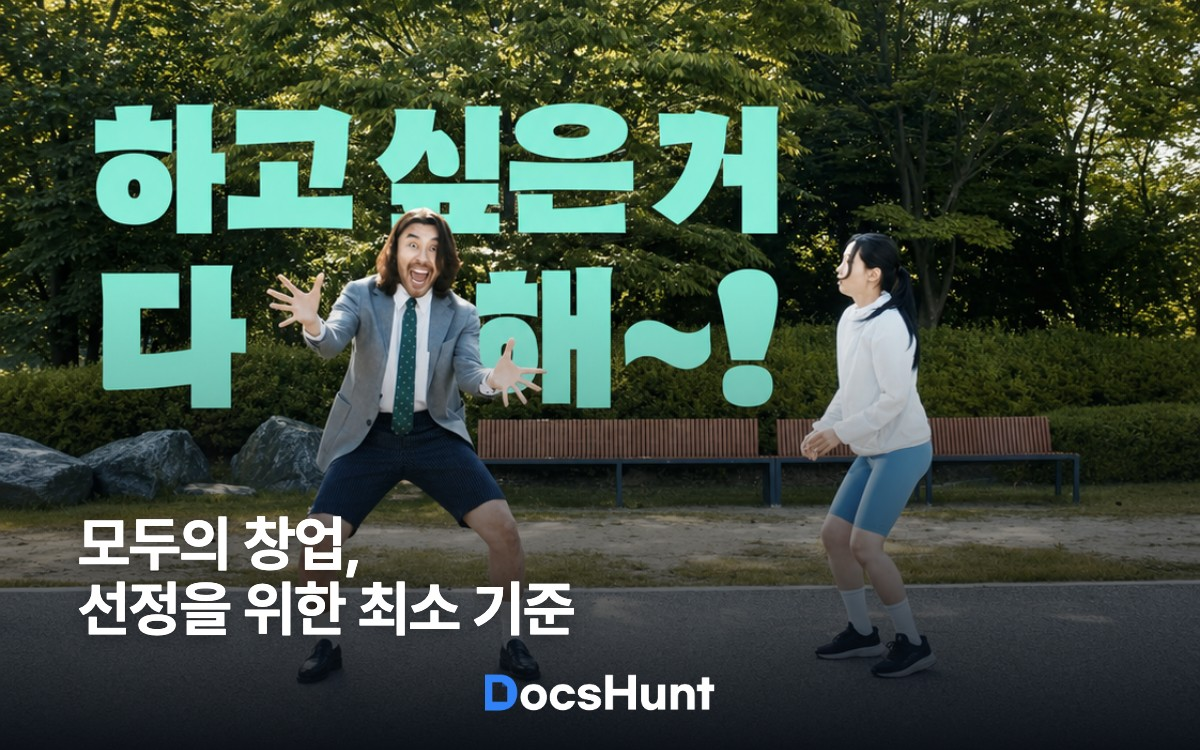
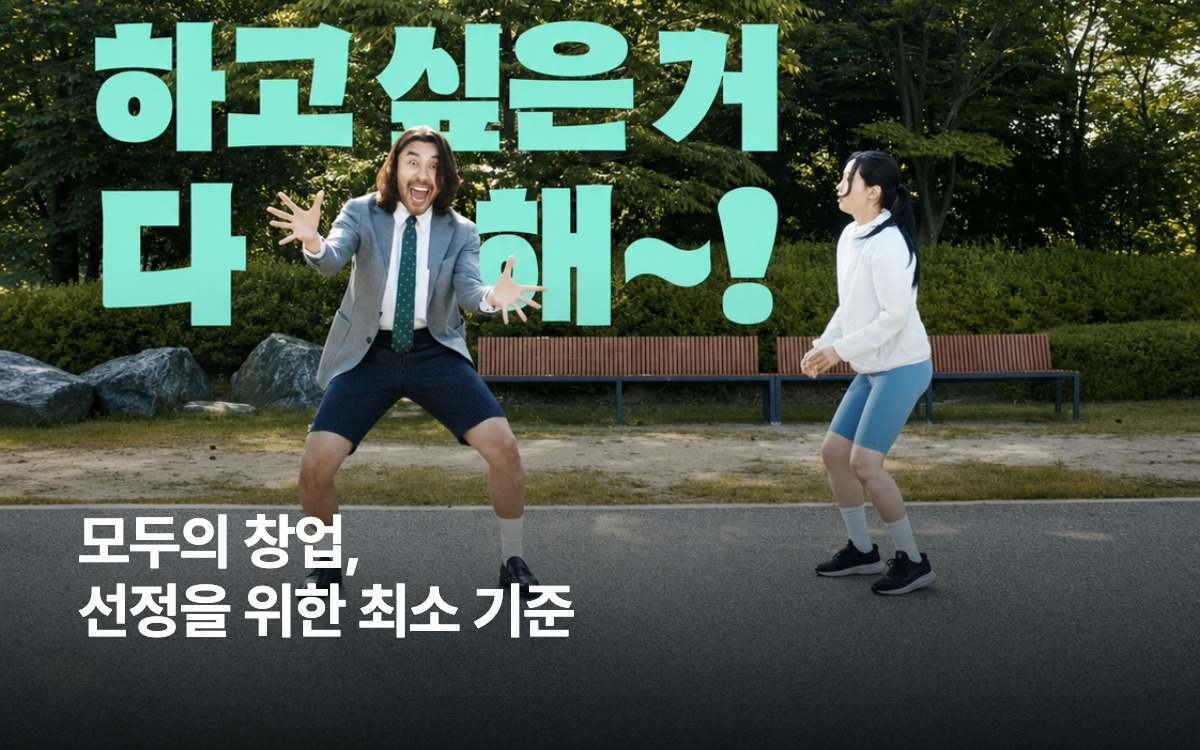
feat: 카드뉴스 커버 워터마크 제거와 하루키 글 등록 (#62)

diff --git a/src/data/blog-posts/00100-재즈바도-소설도-하루키는-하루치씩-했습니다.ts b/src/data/blog-posts/00100-재즈바도-소설도-하루키는-하루치씩-했습니다.ts
@@ -1,0 +1,125 @@
+import { APP_URL } from "@/seo/metadata";
+
+import type { BlogPost } from "./types";
+
+const SHINCHOSHA_AUTHOR_URL = "https://www.shinchosha.co.jp/harukimurakami/author.html";
+const PARIS_REVIEW_INTERVIEW_URL = "https://www.theparisreview.org/interviews/2/the-art-of-fiction-no-182?src=longreads";
+const GUARDIAN_ROUTINE_URL = "https://www.theguardian.com/books/2018/oct/11/haruki-murakami-interview-killing-commendatore";
+const GUARDIAN_PETER_CAT_URL = "https://www.theguardian.com/books/2003/may/17/fiction.harukimurakami";
+
+export const post100 = {
+  page: 1,
+  index: 1,
+  slug: "haruki-murakami-routine-startup-consistency",
+  sourceUrl: "https://docshunt.ai/blog_detail/haruki-murakami-routine-startup-consistency",
+  title: "재즈바도, 소설도 하루키는 하루치씩 했습니다",
+  titleLines: ["재즈바도, 소설도", "하루키는", "하루치씩 했습니다"],
+  titleLineBreaks: "always",
+  description:
+    "하루키는 재즈바와 소설을 하루치씩 이어갔습니다. 특별한 영감보다 다음 날에도 다시 시작하는 반복이 창업을 오래 끌고 가는 기준이 될 수 있다는 카드뉴스의 메시지를 그대로 옮겼습니다.",
+  seo: {
+    mainKeyword: "하루키",
+    supportKeywords: ["하루키 루틴", "피터 캣", "매일 글쓰기", "창업 꾸준함"],
+    searchIntent: "하루키가 재즈바와 소설을 하루치씩 이어간 루틴에서 창업을 지속하는 기준을 알고 싶다",
+  },
+  author: "독스헌트 마케팅팀",
+  date: "2026.08.25",
+  modifiedDate: "2026.08.25",
+  verification: {
+    date: "2026.08.25",
+    note: "본문은 사용자가 제공한 9장 카드뉴스에서 문구·줄바꿈·강조·정렬·이미지 순서를 재현했습니다. 하루키의 연혁과 피터 캣 관련 내용은 신초샤 공식 연표와 Guardian 자료로, 집필 루틴은 Paris Review와 Guardian 인터뷰로 대조했습니다. 카드뉴스의 창업 비유를 성과 보장이나 일반 법칙으로 확대하지 않았습니다.",
+    sources: [
+      { label: "신초샤 공식 하루키 작가 소개·연표", url: SHINCHOSHA_AUTHOR_URL },
+      { label: "The Paris Review, Haruki Murakami: The Art of Fiction No. 182", url: PARIS_REVIEW_INTERVIEW_URL },
+      { label: "The Guardian, Haruki Murakami interview", url: GUARDIAN_ROUTINE_URL },
+      { label: "The Guardian, Marathon man", url: GUARDIAN_PETER_CAT_URL },
+    ],
+  },
+  image: "/docshunt-assets/blog-covers/00100-haruki-routine-startup-consistency-list.jpg",
+  heroImage: "/docshunt-assets/blog-covers/00100-haruki-routine-startup-consistency-hero.jpg",
+  paragraphs: [
+    "1974년, 하루키는 아내와 재즈바 ‘피터 캣’을 엽니다. 낮에는 커피를 끓이고 샌드위치를 만들고, 밤에는 술과 안주를 팔았습니다.",
+    "29살의 하루키는 야구를 보다가 소설을 써보기로 합니다. 그 뒤 가게 일을 마친 밤, 주방 테이블에 앉아 매일 1~2시간씩 조금씩 글을 썼습니다.",
+    "소설가가 된 뒤에도 매일 거의 같은 하루를 반복했습니다. 새벽 4시에 일어나 다섯~여섯 시간 글을 쓰고, 그 뒤에는 달리거나 수영하고 일찍 잠들었습니다.",
+    "하루키가 지킨 건 재능의 순간이 아니라 다음 날에도 다시 책상에 앉는 일이었습니다. 창업도 아이디어가 시작된 다음 날에도 계속할 수 있는 ‘그냥’에서 자랍니다.",
+  ],
+  contentHtml: `<div class="dh-seo-post">
+  <h2>1974년, 하루키는 아내와<br>재즈바 ‘피터 캣’을 엽니다.</h2>
+  <p>낮에는 커피를 끓이고 샌드위치를 만들고, 밤에는 술과 안주를 팔았습니다.</p>
+  <p>빚을 갚아야 하는데 돈은 벌리지 않고,<br>설거지, 바닥 청소, 재즈 뮤지션 섭외, 취객 관리까지<br><br>모든 일을 아내와 단둘이 직접 했습니다.</p>
+  <p><strong><u>피터 캣은 7년 동안 이어졌습니다.</u></strong></p>
+  <figure class="dh-image">
+    <img src="/docshunt-assets/blog-inline/00100-haruki-peter-cat-bar.jpg" alt="하루키가 운영하던 재즈바 피터 캣의 바 안쪽 이미지">
+  </figure>
+
+  <figure class="dh-image">
+    <img src="/docshunt-assets/blog-inline/00100-haruki-writing-desk.jpg" alt="하루키가 글을 쓰던 책상과 작업 공간 이미지">
+  </figure>
+  <h2>29살의 하루키는 야구를 보다가<br>소설을 써보기로 합니다.</h2>
+  <p>그 뒤 가게 일을 마친 밤,<br>주방 테이블에 앉아<br>매일 1~2시간씩 조금씩 글을 썼습니다.</p>
+  <p>작가가 될 준비가<br>되어 있던 건 아니었습니다.</p>
+  <p><strong><u>그냥, 다음 날에도 썼습니다.</u></strong></p>
+
+  <figure class="dh-image">
+    <img src="/docshunt-assets/blog-inline/00100-haruki-writing-routine.jpg" alt="책상에서 노트북으로 작업하는 하루키의 모습">
+  </figure>
+  <h2>가게와 글,<br>둘 다 ‘하루치’씩 했습니다.</h2>
+  <div class="dh-card-columns">
+    <p>가게에는 영업시간이 있었고,<br>글에는 쓰는 시간이 있었습니다.<br><br>하루가 잘돼도, 안 풀려도<br>다음 날 다시 문을 열고<br>다음 문장을 썼습니다.</p>
+    <p><strong><u>한 번의 영감보다<br>반복이 먼저였습니다.</u></strong></p>
+  </div>
+
+  <h2>소설가가 된 뒤<br>생활은 더 단순해졌습니다.</h2>
+  <p>장편을 쓸 때 그는<br>새벽 4시에 일어나<br>다섯~여섯 시간 글을 씁니다.</p>
+  <p>그 뒤에는 달리거나 수영하고,<br>일찍 잠듭니다.</p>
+  <p><strong><u>매일 거의 같은 하루를<br>반복했습니다.</u></strong></p>
+  <figure class="dh-image">
+    <img src="/docshunt-assets/blog-inline/00100-haruki-running-routine.jpg" alt="해 뜨는 시간에 달리는 사람의 실루엣 이미지">
+  </figure>
+
+  <figure class="dh-image">
+    <img src="/docshunt-assets/blog-inline/00100-haruki-writing-desk-top.jpg" alt="책과 노트, 연필이 놓인 집필 책상 이미지">
+  </figure>
+  <h2>하루키가 지킨 건<br>재능의 순간이 아니었습니다.</h2>
+  <p>책 한 권을 쓰는 일보다<br>다음 날에도 다시<br>책상에 앉는 일.</p>
+  <p>작가가 되는 일보다<br>작가로 계속 살아가는 일.</p>
+  <p><strong><u>글쓰기는<br>매일 하는 일이었습니다.</u></strong></p>
+
+  <h2>피터 캣과 소설은<br>같은 방식으로 이어졌습니다.</h2>
+  <p>가게는 매일 열어야 했고,<br>소설은 매일 써야 했습니다.</p>
+  <p>피터 캣은 7년 동안 이어졌고,<br>하루키는 수십 년째 소설을 씁니다.</p>
+  <p><strong><u>쌓인 건 특별한 하루가 아니라<br>평범한 날들이었습니다.</u></strong></p>
+  <figure class="dh-image">
+    <img src="/docshunt-assets/blog-inline/00100-peter-cat-interior.jpg" alt="피터 캣을 떠올리게 하는 음악과 바 공간 이미지">
+  </figure>
+
+  <h2>꾸준함은<br>거창한 의지가 아닙니다.</h2>
+  <p>매일 대단한 동기가 있어야<br>계속할 수 있는 건 아닙니다.<br><br>오늘 할 몫이 있고,<br>그걸 그냥 해내는 것.</p>
+  <p><strong><u>하루키는 그 ‘그냥’을<br>아주 오래 했습니다.</u></strong></p>
+  <figure class="dh-image">
+    <img src="/docshunt-assets/blog-inline/00100-peter-cat-vintage-bar.jpg" alt="오래된 재즈바의 흑백 내부 사진">
+  </figure>
+
+  <div style="text-align:center">
+    <h2>특별해서 오래 한 게 아니라,<br>오래 해서 자기만의 것이 됐습니다.</h2>
+    <p>창업도 마찬가지입니다.</p>
+    <p>아이디어는 어느 날 시작되지만,<br>사업은 그다음 날에도<br>계속할 수 있는 ‘그냥’에서 자랍니다.</p>
+    <p><strong><u>수많은 ‘그냥’을 쌓아,<br>나만의 것으로.</u></strong></p>
+  </div>
+
+  <div class="dh-cta">
+    <p>하루치씩 이어갈 사업계획서를 독스헌트와 함께 준비하세요.</p>
+    <a class="dh-cta-button" href="${APP_URL}/f?utm_source=blog&amp;utm_medium=owned&amp;utm_campaign=haruki-murakami-routine-startup-consistency&amp;utm_content=blog_cta" target="_blank" rel="noopener noreferrer">독스헌트에서 사업계획서 준비하기</a>
+  </div>
+
+  <section class="dh-sources">
+    <h2>참고자료</h2>
+    <ul>
+      <li><a href="${SHINCHOSHA_AUTHOR_URL}" target="_blank" rel="noopener noreferrer">신초샤 공식 하루키 작가 소개·연표</a></li>
+      <li><a href="${PARIS_REVIEW_INTERVIEW_URL}" target="_blank" rel="noopener noreferrer">The Paris Review, Haruki Murakami: The Art of Fiction No. 182</a></li>
+      <li><a href="${GUARDIAN_ROUTINE_URL}" target="_blank" rel="noopener noreferrer">The Guardian, Haruki Murakami interview</a></li>
+      <li><a href="${GUARDIAN_PETER_CAT_URL}" target="_blank" rel="noopener noreferrer">The Guardian, Marathon man</a></li>
+    </ul>
+  </section>
+</div>`,
+} satisfies BlogPost;

diff --git a/.agents/skills/cardnews-blog-writing/SKILL.md b/.agents/skills/cardnews-blog-writing/SKILL.md
@@ -15,7 +15,7 @@ Turn card-news source files into one production-ready post under `src/data/blog-
 4. Scaffold the next numbered post with `../blog-writing/scripts/create-blog-post.mjs`. Choose an existing category from the article's subject and search intent, not from the card-news format; selection criteria, judging, and acceptance strategy belong in `startup-insights`.
 5. Extract each card's underlying photo or illustration from an editable deck. For a flattened source, crop only the visual region. Resize those visual assets for the browser while preserving aspect ratio; do not publish full rendered cards as body images.
 6. Recreate the non-image copy as HTML in the same sequence. Preserve headings, line breaks, underlines, emphasis, left or center alignment, image-before-text or text-before-image order, and intentional two-column relationships.
-7. Rebuild the first card as a 1200×750 hero and 384×240 list cover following post 00098: full-bleed source visual with no side padding, the article title over a lower gradient, and the DocsHunt watermark at bottom center. The remaining cards become HTML text plus extracted visual assets.
+7. Rebuild the first card as a 1200×750 hero and 384×240 list cover following post 00098: full-bleed source visual with no side padding, the article title over a lower gradient, and no bottom DocsHunt watermark or footer branding. When updating a cardnews batch, apply the same no-watermark treatment to every affected hero/list cover.
 8. Reuse `.dh-seo-post`, `.dh-image`, and `.dh-card-columns`. Add only the smallest shared responsive CSS needed to express a source layout that existing blocks cannot render.
 9. Keep editorial copy exact unless the user asks for rewriting, but omit platform-only actions such as asking readers to comment a keyword or promising to send a link by DM. Replace them with one direct blog CTA when appropriate.
 10. Add only metadata, semantic image `alt` text, sources, and exactly one `.dh-cta` containing one `.dh-cta-button`; do not duplicate it with another generic CTA.
@@ -26,6 +26,7 @@ Turn card-news source files into one production-ready post under `src/data/blog-
 
 - One numbered post module and its index registration.
 - One hero cover, one list cover, and the source cards' extracted visual regions as inline images.
+- Cardnews-derived hero and list covers do not contain a bottom DocsHunt watermark or footer branding.
 - No full-card body images and no social-platform comment or DM CTA.
 - No temporary files in the repository.
 - A concise handoff with the preview URL and verification results.
